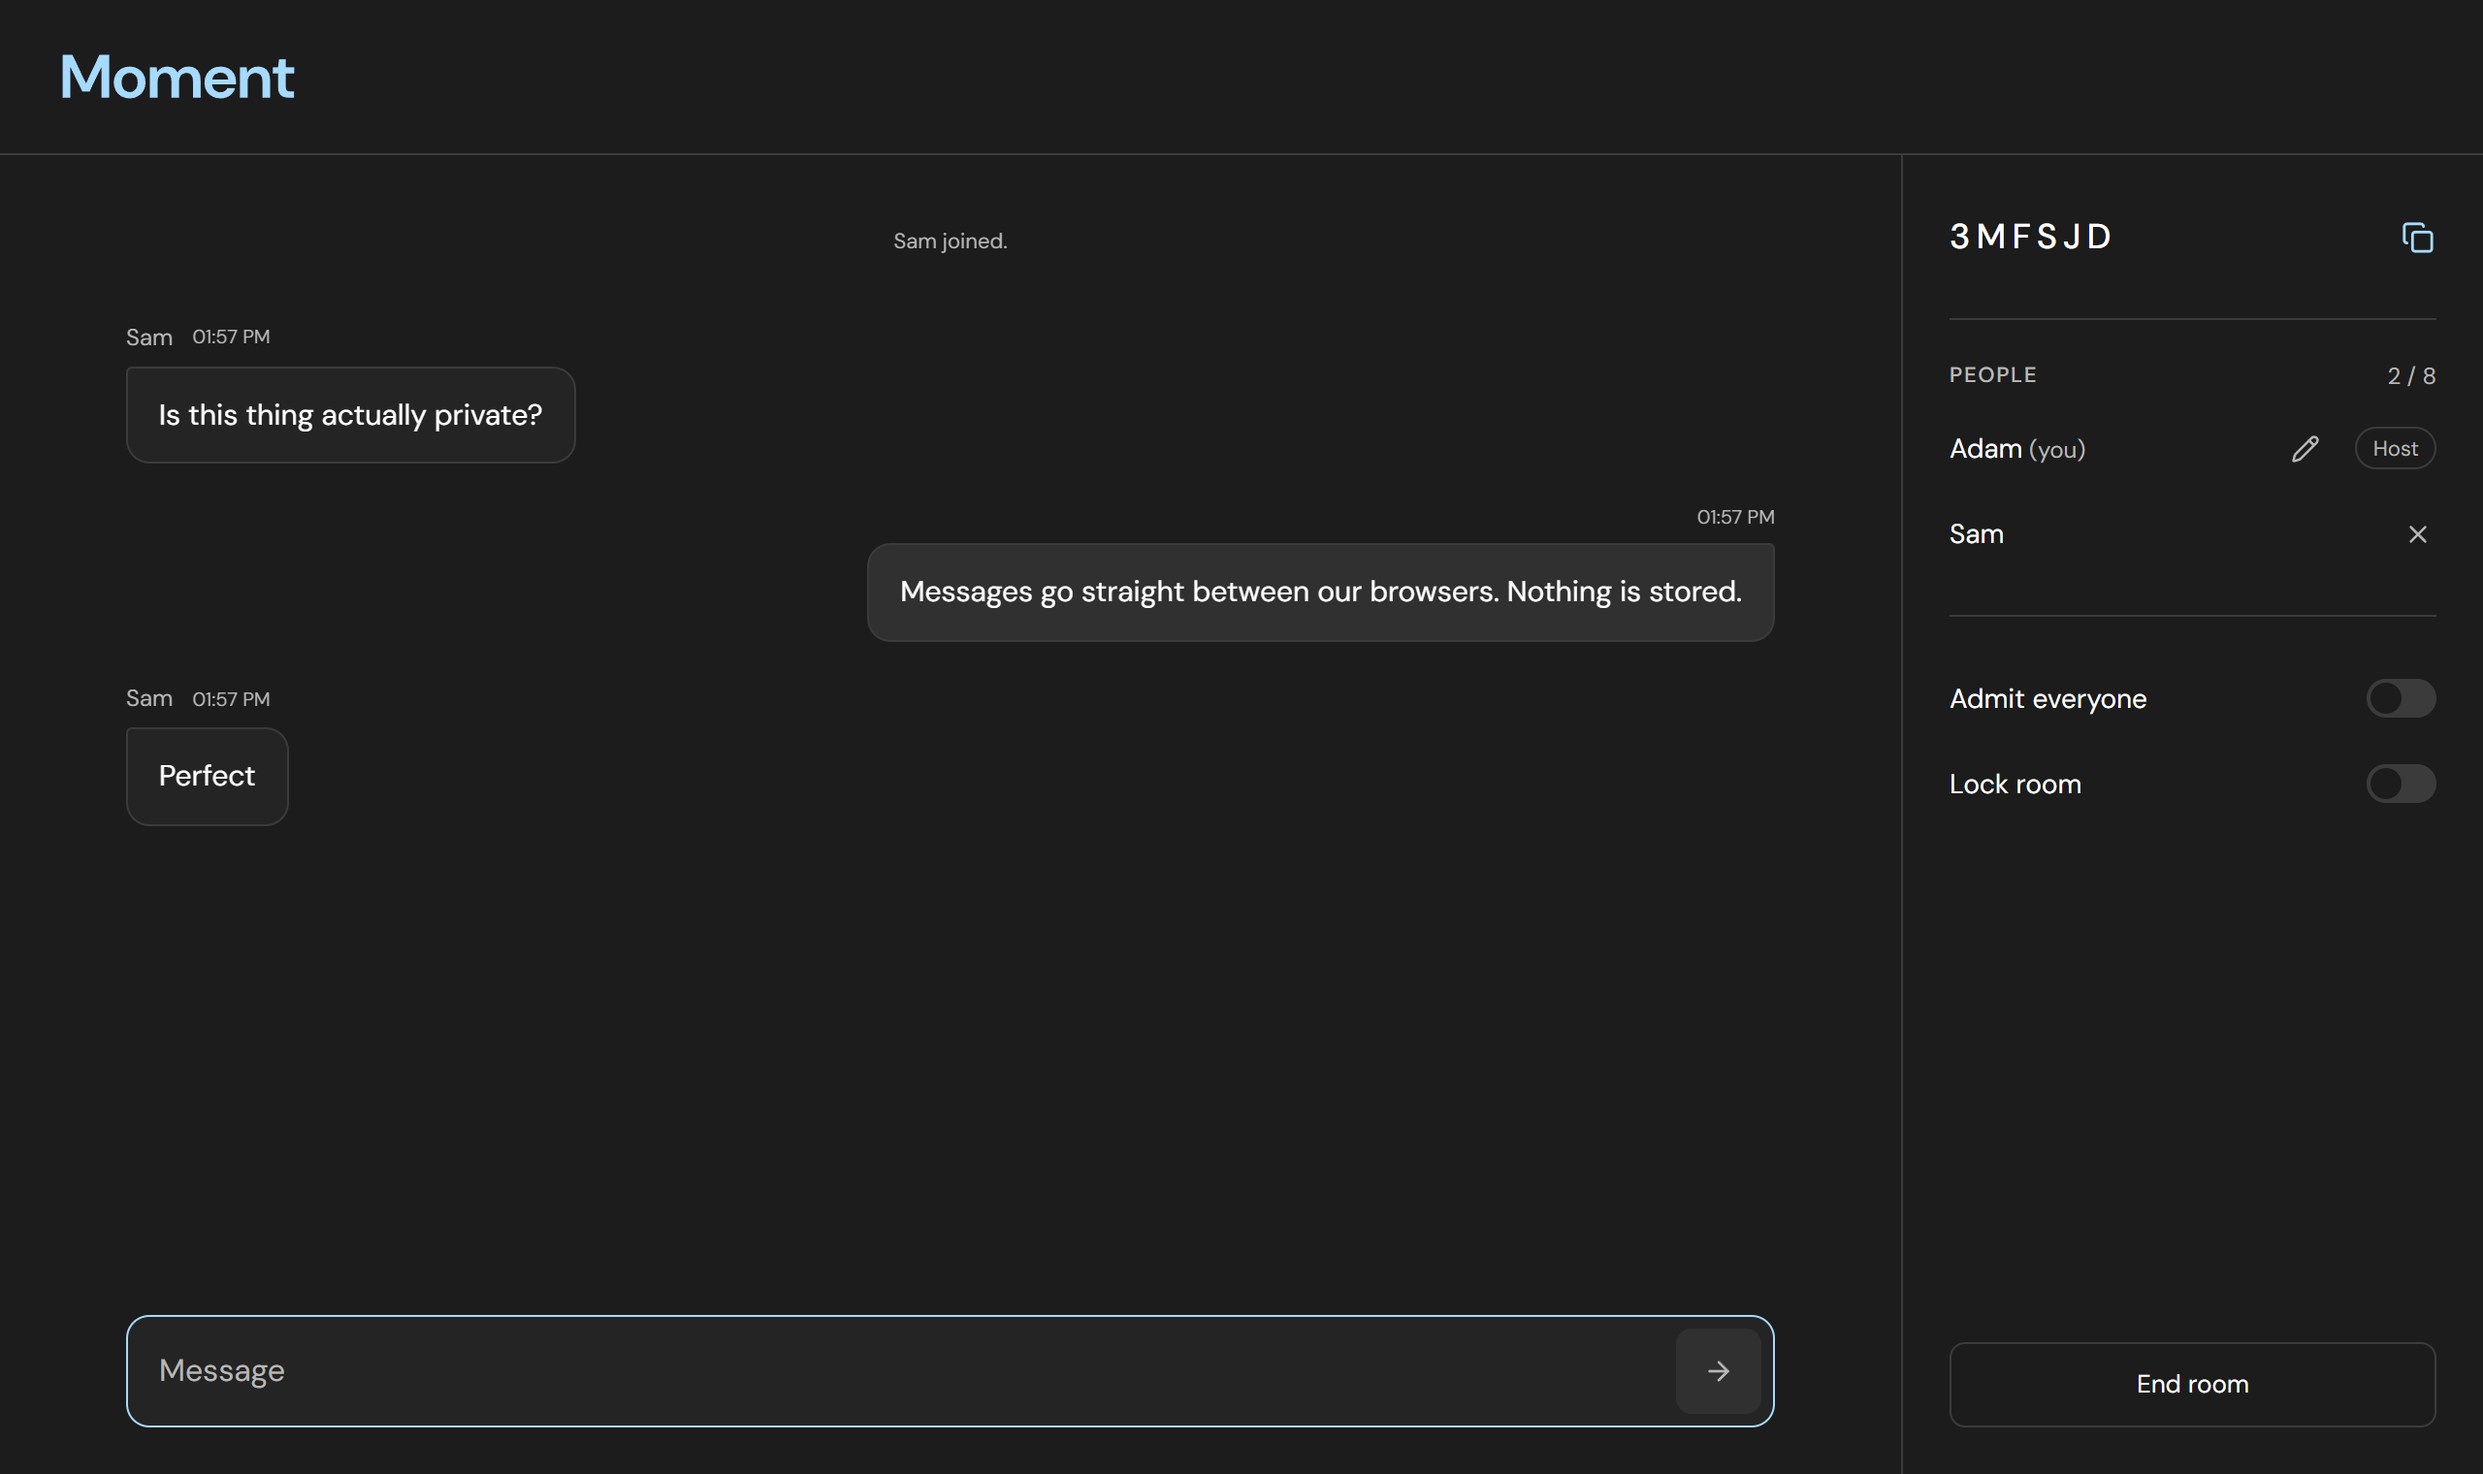
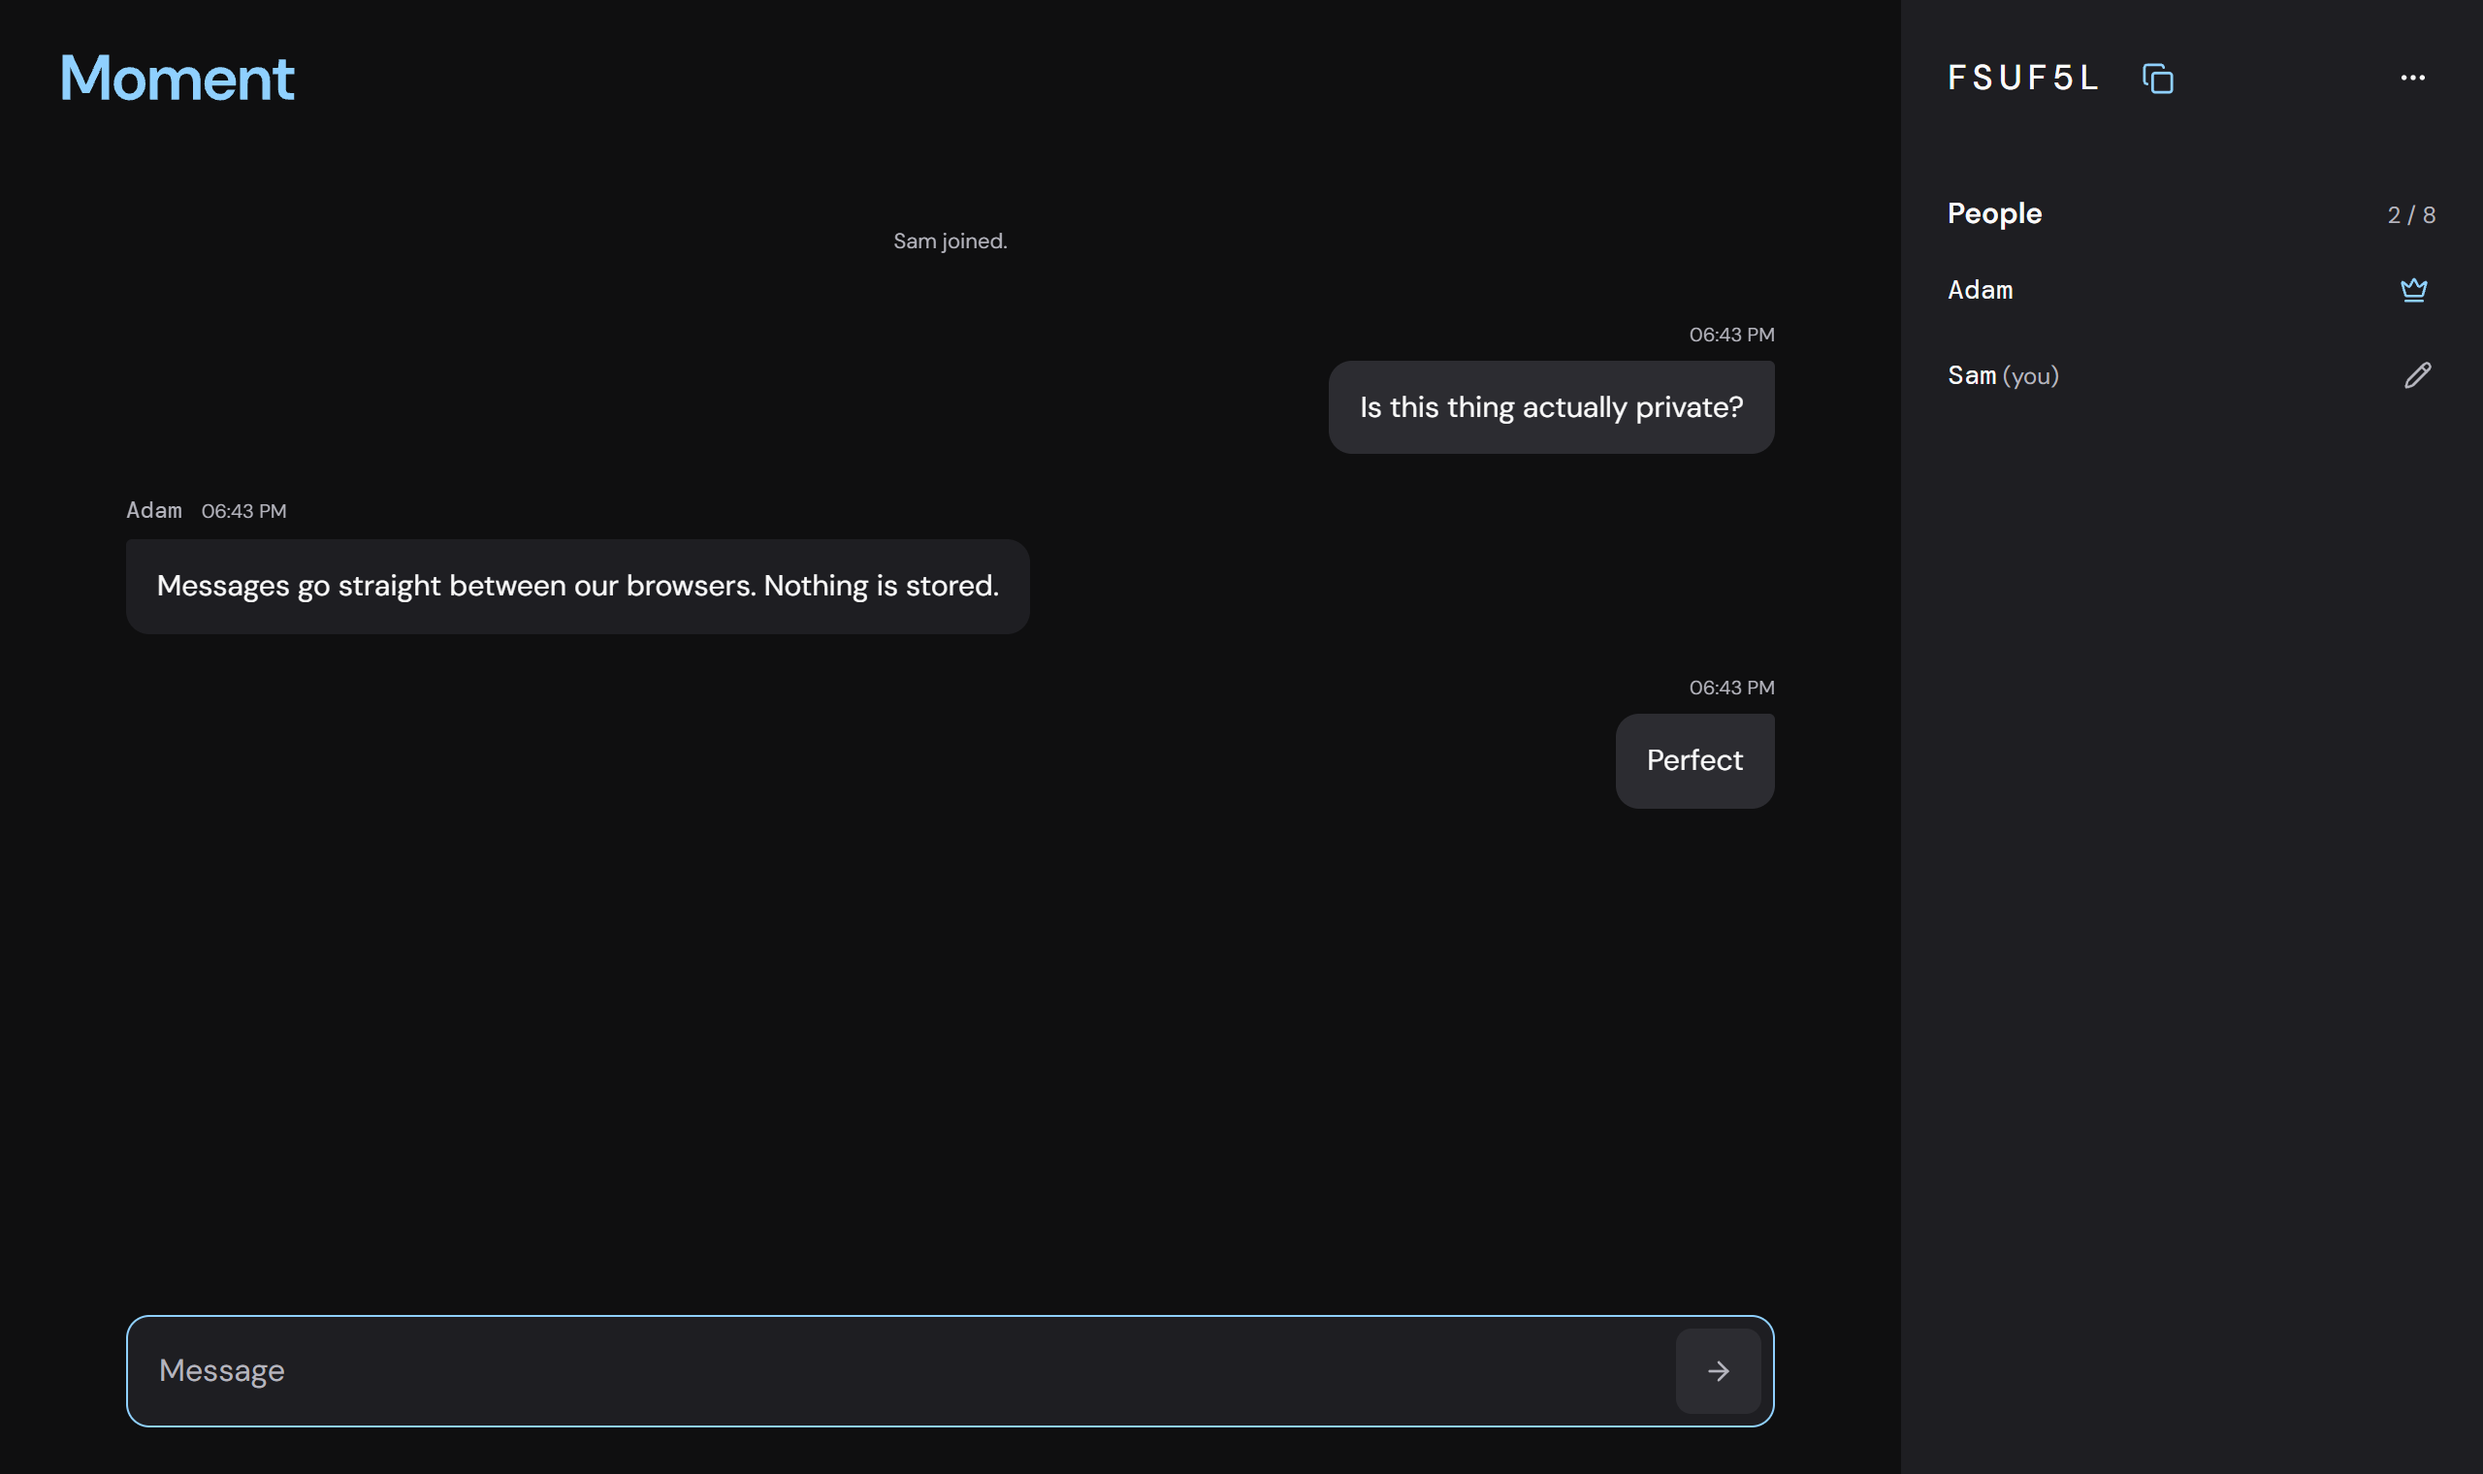
Full height sidebar

diff --git a/src/App.tsx b/src/App.tsx
@@ -196,16 +196,18 @@ function Room({ state, engine }: { state: RoomState; engine: RoomEngine }) {
   }
   const mobileLayout = useSyncExternalStore(subscribeToLayout, isMobileLayout)
   const identity = <div className="room-identity" role="group" aria-label="Room code"><strong>{state.code}</strong><CopyButton value={link} onFailure={() => setManualCopy(true)} onSuccess={() => setManualCopy(false)} /></div>
-  const controls = <PeoplePanel state={state} engine={engine} identity={!mobileLayout && identity} onRemove={setRemovePerson} />
+  const menu = <RoomMenu state={state} engine={engine} onLeave={() => { if (state.isHost) setEndOpen(true); else engine.leave() }} />
+  const controls = <PeoplePanel state={state} engine={engine} identity={!mobileLayout && <div className="sidebar-top">{identity}{menu}</div>} onRemove={setRemovePerson} />
   return <>
-    <AppHeader><RoomMenu state={state} engine={engine} onLeave={() => { if (state.isHost) setEndOpen(true); else engine.leave() }} /></AppHeader>
+    <div className="room-workspace"><div className="chat-column">
+    <AppHeader>{mobileLayout && menu}</AppHeader>
     {mobileLayout && <div className="room-toolbar">
       {identity}
       <Button variant="ghost" className="people-button" onClick={() => setPeopleOpen(true)} aria-label={`Participants: ${state.participants.length}${state.requests.length ? `. Requests: ${state.requests.length}.` : ''}`}>
         People<span>{state.requests.length > 0 ? `${state.requests.length} waiting` : `${state.participants.length} / ${MAX_PARTICIPANTS}`}</span>
       </Button>
     </div>}
-    <div className="room-workspace"><main className="chat-main">{manualCopy && <div className="manual-copy"><Input aria-label="Invite link" readOnly value={link} onFocus={event => event.target.select()} /><p role="alert">Couldn’t copy the link. Select it and copy it manually.</p></div>}<h1 className="sr-only">Room {state.code}</h1>
+    <main className="chat-main">{manualCopy && <div className="manual-copy"><Input aria-label="Invite link" readOnly value={link} onFocus={event => event.target.select()} /><p role="alert">Couldn’t copy the link. Select it and copy it manually.</p></div>}<h1 className="sr-only">Room {state.code}</h1>
       {(state.status !== 'online' || connected) && <div className="connection-banner" role="status">{state.status === 'online' ? <Wifi aria-hidden="true" /> : <WifiOff aria-hidden="true" />}<span>{state.status === 'online' ? 'Connected to the room.' : state.status === 'connecting' ? 'Connecting to the room…' : state.isHost ? 'Reconnecting. New people may be unable to join.' : 'Reconnecting for up to 2 minutes. Your messages will wait.'}</span></div>}
       <div className="message-scroll" ref={scrollRef} role="log" aria-label="Room messages" aria-live="polite" aria-relevant="additions" onScroll={() => { const el = scrollRef.current; if (el) setScrolledUp(el.scrollHeight - el.scrollTop - el.clientHeight > 100) }}>
         <div className="message-list">
@@ -221,7 +223,7 @@ function Room({ state, engine }: { state: RoomState; engine: RoomEngine }) {
         </div><div ref={messageEnd} />
       </div>
       <div className="composer-area">{scrolledUp && <Button className="latest-button" variant="secondary" onClick={() => { setScrolledUp(false); messageEnd.current?.scrollIntoView({ block: 'end' }) }}><ArrowDown aria-hidden="true" />Latest Messages</Button>}{state.error && state.status === 'online' && <p className="composer-error" role="status">{state.error}</p>}<form className="composer" onSubmit={send}><Label htmlFor="message" className="sr-only">Message</Label><Textarea id="message" ref={textareaRef} placeholder="Message" value={draft} maxLength={MAX_MESSAGE_LENGTH} rows={1} onChange={event => setDraft(event.target.value)} onKeyDown={event => { if (event.key === 'Enter' && !event.shiftKey && !event.nativeEvent.isComposing && matchMedia('(pointer: fine)').matches) { event.preventDefault(); send() } }} /><Button size="icon" type="submit" className="send-button" disabled={!draft.trim()} aria-label="Send message"><ArrowRight aria-hidden="true" /></Button></form>{draft.length >= 3800 && <div className="composer-footer"><span className="message-counter near-limit">{draft.length.toLocaleString()} / 4,000</span></div>}</div>
-    </main>{!mobileLayout && <aside className="desktop-sidebar">{controls}</aside>}</div>
+    </main></div>{!mobileLayout && <aside className="desktop-sidebar">{controls}</aside>}</div>
     {mobileLayout && <Dialog open={peopleOpen} onOpenChange={setPeopleOpen}><DialogContent className="moment-dialog people-dialog" onEscapeKeyDown={event => { if (document.activeElement?.hasAttribute('data-rename')) event.preventDefault() }}><DialogHeader className="sr-only"><DialogTitle>Participants</DialogTitle><DialogDescription>View participants and manage requests to join.</DialogDescription></DialogHeader>{controls}</DialogContent></Dialog>}
     <Dialog open={endOpen} onOpenChange={setEndOpen}><DialogContent className="moment-dialog confirm-dialog"><DialogHeader><DialogTitle>End Room?</DialogTitle><DialogDescription>Everyone will be disconnected and the chat cleared.</DialogDescription></DialogHeader><div className="confirm-actions"><Button variant="outline" onClick={() => setEndOpen(false)}>Cancel</Button><Button onClick={() => { setEndOpen(false); engine.leave() }}>End Room</Button></div></DialogContent></Dialog>
     <Dialog open={!!removePerson} onOpenChange={open => { if (!open) setRemovePerson(null) }}><DialogContent className="moment-dialog confirm-dialog"><DialogHeader><DialogTitle>Remove {removePerson?.name}?</DialogTitle><DialogDescription>They’ll be disconnected and their chat will be cleared.</DialogDescription></DialogHeader><div className="confirm-actions"><Button variant="outline" onClick={() => setRemovePerson(null)}>Cancel</Button><Button onClick={() => { if (removePerson) engine.remove(removePerson.id); setRemovePerson(null) }}>Remove</Button></div></DialogContent></Dialog>
@@ -230,7 +232,7 @@ function Room({ state, engine }: { state: RoomState; engine: RoomEngine }) {
 function PeoplePanel({ state, engine, identity, onRemove }: { state: RoomState; engine: RoomEngine; identity?: ReactNode; onRemove: (person: Participant) => void }) {
   const [renaming, setRenaming] = useState(false)
   return <div className="people-panel">
-    {identity && <section className="panel-section">{identity}</section>}
+    {identity}
     <section className="panel-section">
       <div className="sidebar-heading"><h2>People</h2><span>{`${state.participants.length} / ${MAX_PARTICIPANTS}`}</span></div>
       {state.participants.map(person => person.id === state.selfId && renaming

diff --git a/src/index.css b/src/index.css
@@ -30,7 +30,7 @@ svg { flex-shrink: 0; }
 .app-shell { min-height: 100dvh; display: flex; flex-direction: column; }
 .app-header { height: 80px; flex-shrink: 0; padding: 0 32px; display: grid; grid-template-columns: 1fr auto 1fr; align-items: center; gap: 20px; background: var(--background); }
 .room-menu-button { grid-column: -2 / -1; justify-self: end; width: 44px; height: 44px; margin-right: -10px; }
-.room-menu { inset: auto; top: 68px; right: 22px; margin: 0; width: 260px; padding: 8px 16px 16px; border: 0; border-radius: 12px; background: var(--secondary); color: var(--foreground); box-shadow: 0 16px 48px rgb(0 0 0 / .6); }
+.room-menu { inset: auto; top: 68px; right: 14px; margin: 0; width: 260px; padding: 8px 16px 16px; border: 0; border-radius: 12px; background: var(--secondary); color: var(--foreground); box-shadow: 0 16px 48px rgb(0 0 0 / .6); }
 .app-header > .brand { grid-column: 1; }
 .brand { display: block; width: 120px; height: auto; flex-shrink: 0; user-select: none; }
 .leave-action { width: 100%; min-height: 44px; margin-top: 8px; border-radius: 8px; font-size: 13px; background: transparent; }
@@ -78,7 +78,8 @@ svg { flex-shrink: 0; }
 .copy-button { width: 44px; height: 44px; padding: 0; color: var(--primary); }
 .copy-button svg { width: 17px; height: 17px; }
 .room-workspace { display: flex; flex: 1; min-height: 0; }
-.chat-main { display: flex; flex-direction: column; min-width: 0; flex: 1; position: relative; }
+.chat-column { display: flex; flex-direction: column; flex: 1; min-width: 0; }
+.chat-main { display: flex; flex-direction: column; min-width: 0; min-height: 0; flex: 1; position: relative; }
 .manual-copy { padding: 16px 24px; }
 .manual-copy input { font-size: 16px; height: 44px; }
 .manual-copy p { color: var(--muted-foreground); font-size: 12px; line-height: 1.6; margin-top: 8px; }
@@ -112,9 +113,9 @@ svg { flex-shrink: 0; }
 .desktop-sidebar { width: 300px; flex-shrink: 0; background: var(--card); overflow-y: auto; scrollbar-width: thin; }
 .people-panel { padding: 0 24px 24px; display: flex; flex-direction: column; min-height: 100%; }
 .panel-section { padding: 20px 0 8px; }
-.panel-section > .room-identity { justify-content: space-between; min-height: 40px; }
-.panel-section > .room-identity strong { font-size: 18px; letter-spacing: 3px; }
-.panel-section > .room-identity .copy-button { margin-right: -12px; }
+.sidebar-top { display: flex; align-items: center; gap: 4px; height: 80px; }
+.sidebar-top .room-identity { flex: 1; }
+.sidebar-top .room-identity strong { font-size: 18px; letter-spacing: 3px; }
 .sidebar-heading { display: flex; justify-content: space-between; align-items: center; gap: 16px; margin-bottom: 6px; }
 .people-panel .sidebar-heading h2 { padding: 0; font-size: 15px; line-height: 1.4; font-weight: 600; color: var(--foreground); }
 .sidebar-heading > span { font-size: 12px; font-variant-numeric: tabular-nums; color: var(--muted-foreground); }
